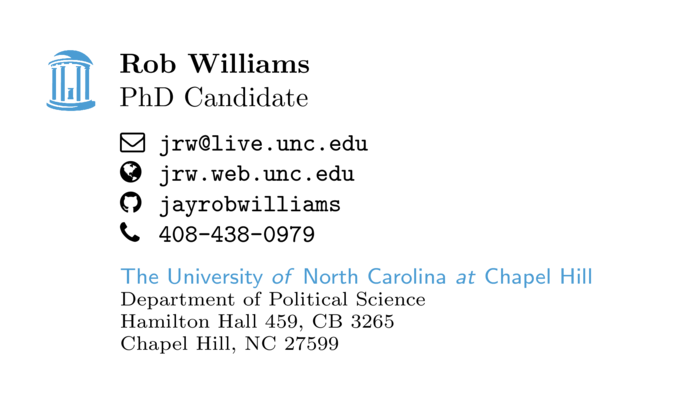
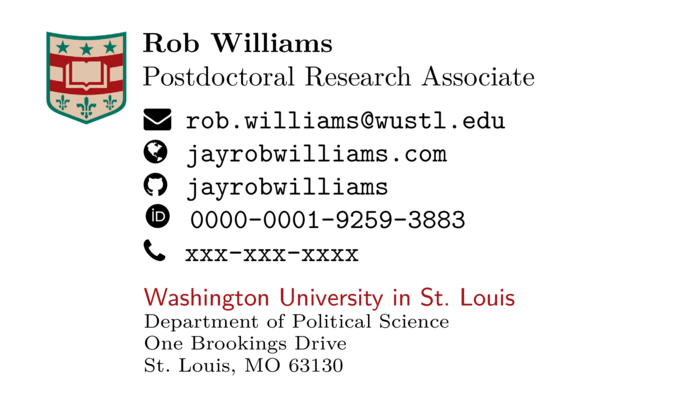
add orcid and switch to luatex

Changed region(s): [[0.06, 0.06, 0.84, 0.93]]

diff --git a/Business Card/card.tex b/Business Card/card.tex
@@ -1,7 +1,9 @@
+% !TeX program = lualatex
 \documentclass[10pt]{article}
 %\documentclass[10pt,convert={density=300,size=1080x800,outext=.png}]{standalone}
 \usepackage{graphicx}
 \usepackage{fontawesome}
+\usepackage{academicons} % academic icons
 \usepackage{color}
 \definecolor{uncblue}{RGB}{165, 20, 24}
 \pagestyle{empty}
@@ -10,7 +12,7 @@
     paperheight=2in,
     left=0.2in,
     right=0.2in,
-    top=0.175in,
+    top=0.05in,
     bottom=0.05in]{geometry}
 
 \begin{document}	
@@ -30,10 +32,11 @@
 \hspace{12mm}
 \parbox{2in}{
 	
-	\faEnvelopeO \hspace{.65mm} \texttt{j.r.williams@wustl.edu} \\
+	\faEnvelope \hspace{.65mm} \texttt{rob.williams@wustl.edu} \\
 	\faGlobe ~ \texttt{jayrobwilliams.com} \\
 	\faGithub ~ \texttt{jayrobwilliams} \\
-	\faPhone \hspace{1.30mm} \texttt{408-438-0979}
+	\aiOrcid ~ \texttt{0000-0001-9259-3883} \\
+	\faPhone \hspace{1.30mm} \texttt{xxx-xxx-xxxx}
 }
 
 % department info
@@ -41,10 +44,10 @@
 \hspace{12mm}
 \parbox{2.5in}{
 	\small
-	\textsf{\textcolor{uncblue}{Washington University in St. Louis}}\\
+	\textsf{\textcolor{uncblue}{Washington University in St.\ Louis}}\\
 	\scriptsize Department of Political Science \\
 	One Brookings Drive \\
-	St. Louis, MO 63130
+	St.\ Louis, MO 63130
 }
 
 \end{document}
